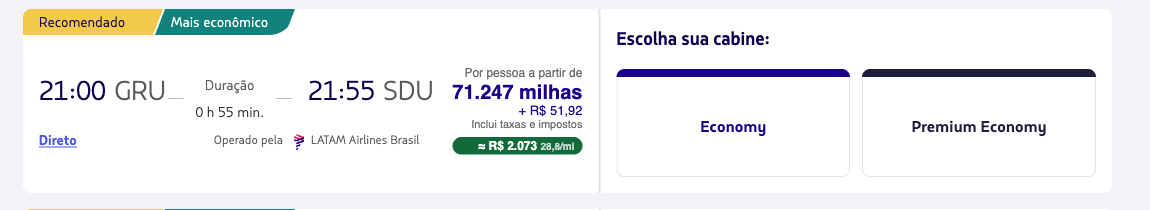
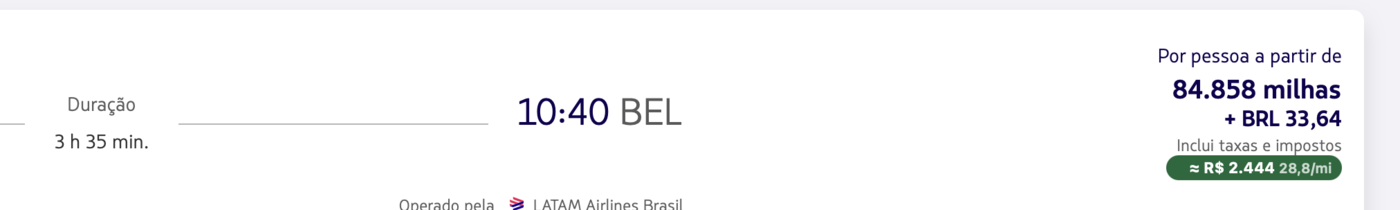
docs: real logged-in screenshot of the inline chip

diff --git a/README.md b/README.md
@@ -4,9 +4,6 @@ Milhas ou reais? Extensão de browser que, na LATAM, anota cada voo e cada tarif
 com o **R$/milheiro** e o veredito contra o **seu baseline**, direto na interface
 deles, no modo milhas (onde a LATAM esconde o preço em dinheiro).
 
-<!-- Mockup (Playwright não loga no LATAM Pass); troque por um print real do
-     modo milhas logado quando der. -->
-
 ![Chip de R$/milheiro num voo da LATAM](docs/screenshot.png)
 
 ## A ideia
